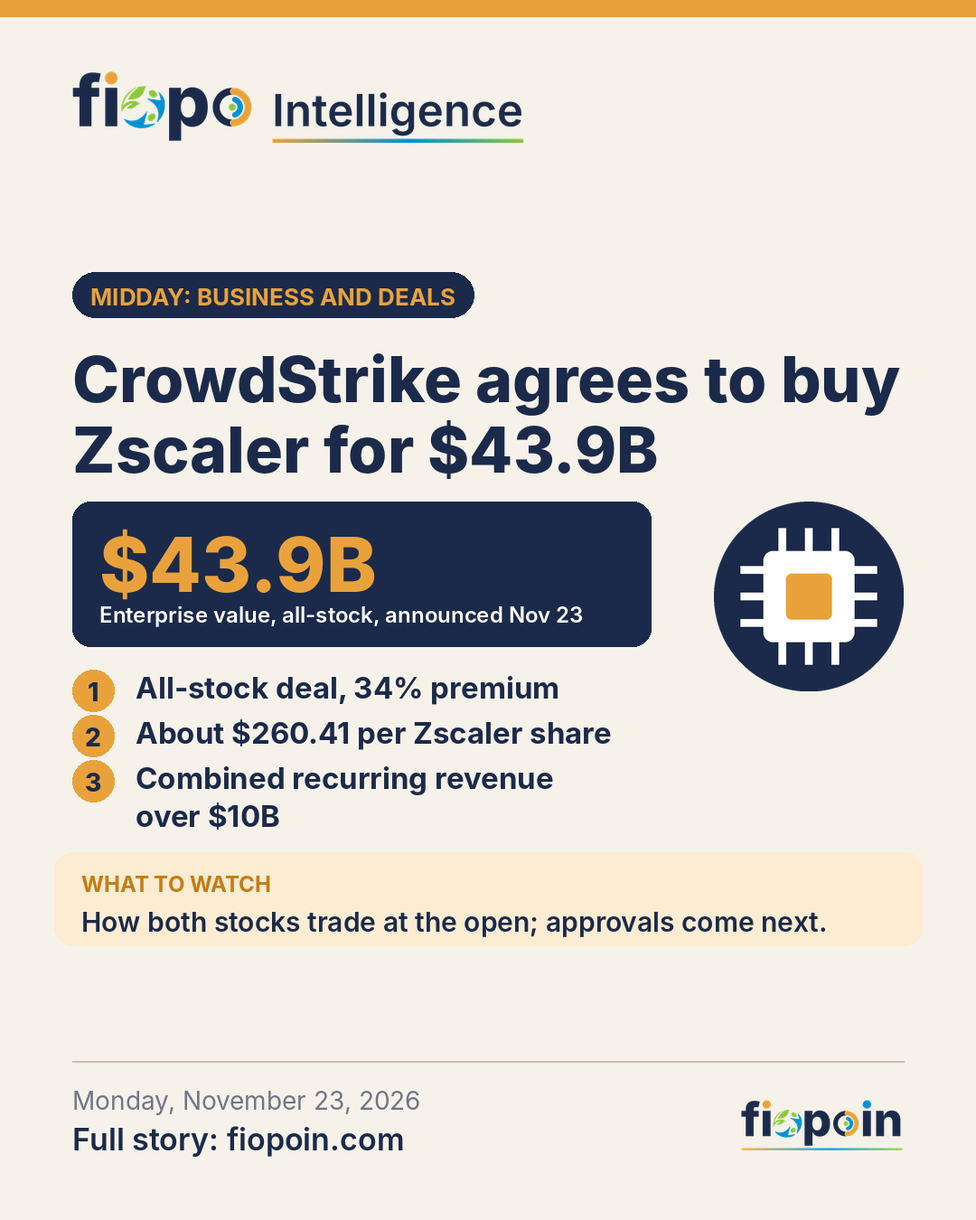
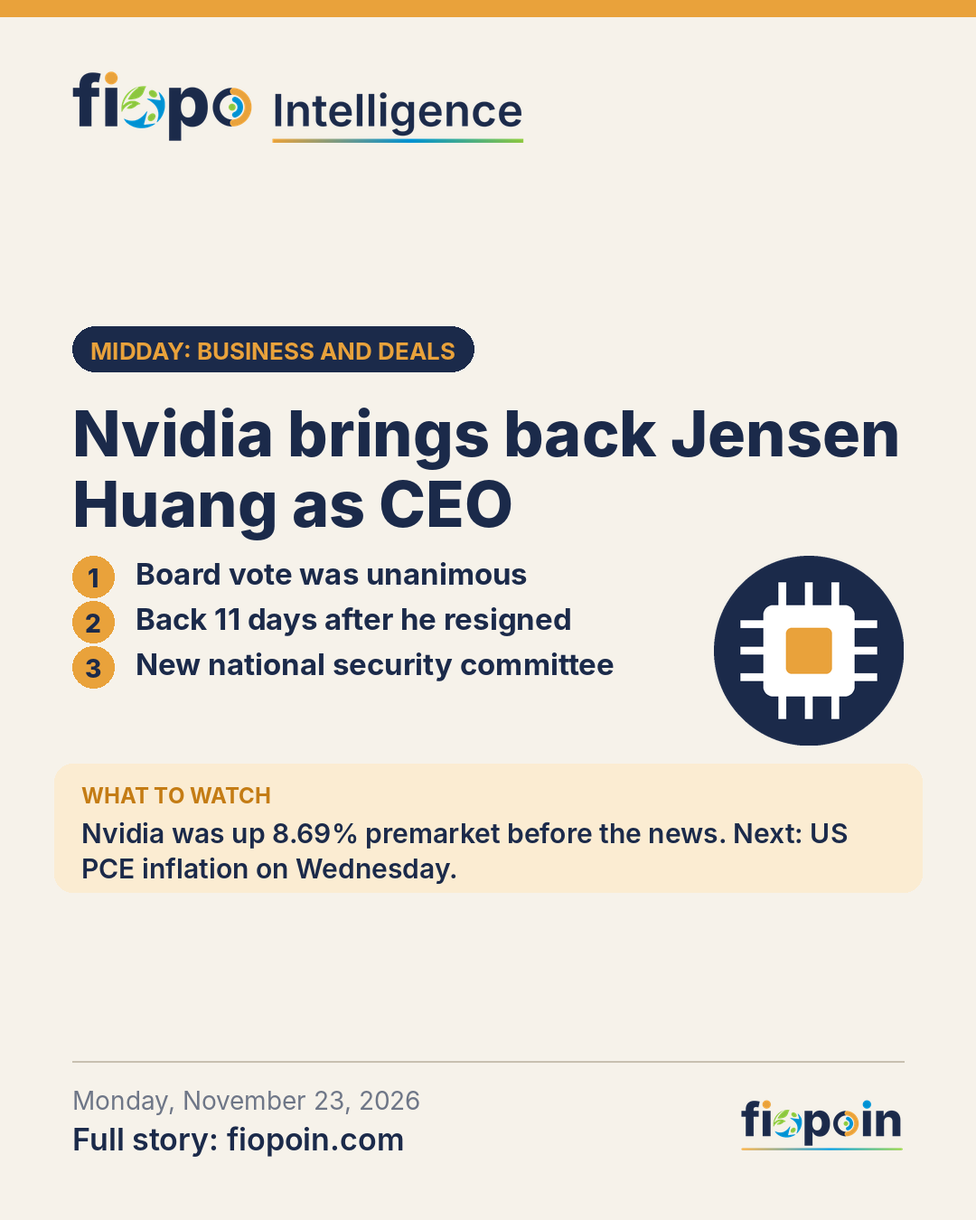
Nov 23 update: Nvidia reinstates Jensen Huang; midday post, hero, money story and tape updated
Claude-Session: https://claude.ai/code/session_01VeWbxxHBww6vYMEBZ5WNWM

Changed region(s): [[0.0611, 0.2178, 0.9167, 0.7778], [0.7333, 0.4044, 0.9472, 0.6222], [0.7639, 0.6533, 0.8556, 0.7156]]

diff --git a/index.html b/index.html
@@ -14,7 +14,7 @@
 <meta name="robots" content="index, follow, max-image-preview:large, max-snippet:-1, max-video-preview:-1">
 <link rel="canonical" href="https://fiopoin.com/">
 <meta property="og:type" content="article">
-<meta property="og:title" content="Futures bounce after Wall Street&#39;s worst week since 2020. Here is how it reaches your savings.">
+<meta property="og:title" content="Nvidia brings back Jensen Huang after Wall Street&#39;s worst week since 2020.">
 <meta property="og:description" content="US stock futures rose on Sunday night after Wall Street&#39;s worst week since 2020. Dow futures gained 798 points after the S&amp;P 500 fell 8.6% last week. Taiwan had its worst week since 1991 and Korea&#39;s KOSPI fell 3.3% on Monday. Gold rose to $3,607.55.">
 <meta property="og:image" content="https://fiopoin.com/social/2026-11-23.png">
 <meta property="og:image:width" content="1080">
@@ -23,10 +23,10 @@
 <meta property="og:locale" content="en_US">
 <meta property="article:published_time" content="2026-11-23T05:12:00-06:00">
 <meta name="twitter:card" content="summary_large_image">
-<meta name="twitter:title" content="Futures bounce after Wall Street&#39;s worst week since 2020. Here is how it reaches your savings.">
+<meta name="twitter:title" content="Nvidia brings back Jensen Huang after Wall Street&#39;s worst week since 2020.">
 <meta name="twitter:description" content="US stock futures rose on Sunday night after Wall Street&#39;s worst week since 2020. Dow futures gained 798 points after the S&amp;P 500 fell 8.6% last week. Taiwan had its worst week since 1991 and Korea&#39;s KOSPI fell 3.3% on Monday. Gold rose to $3,607.55.">
 <meta name="twitter:image" content="https://fiopoin.com/social/2026-11-23.png">
-<script type="application/ld+json">{"@context": "https://schema.org", "@graph": [{"@type": "NewsMediaOrganization", "@id": "https://fiopoin.com/#org", "name": "FIOPO Intelligence", "alternateName": ["fiopoin", "fiopoin.com", "FIOPO"], "areaServed": "Worldwide", "url": "https://fiopoin.com/", "email": "hello@fiopoin.com", "publishingPrinciples": "https://fiopoin.com/about.html", "logo": {"@type": "ImageObject", "url": "https://fiopoin.com/brand/fiopoin-icon-512.png", "width": 512, "height": 512}, "slogan": "Intelligence for prosperity", "sameAs": ["https://www.linkedin.com/company/fiopoin/", "https://x.com/fiopoinx", "https://www.instagram.com/fiopoin/", "https://www.facebook.com/profile.php?id=61596657421058"]}, {"@type": "NewsArticle", "@id": "https://fiopoin.com/#article", "headline": "Futures bounce after Wall Street's worst week since 2020. Here is how it reaches your savings.", "description": "US stock futures rose on Sunday night after Wall Street's worst week since 2020. Dow futures gained 798 points after the S&P 500 fell 8.6% last week. Taiwan had its worst week since 1991 and Korea's KOSPI fell 3.3% on Monday. Gold rose to $3,607.55.", "url": "https://fiopoin.com/", "mainEntityOfPage": "https://fiopoin.com/", "image": ["https://fiopoin.com/social/2026-11-23.png"], "datePublished": "2026-11-23T05:12:00-06:00", "dateModified": "2026-11-23T05:12:00-06:00", "inLanguage": "en-US", "isAccessibleForFree": true, "articleSection": ["Stocks and your savings", "Iran war and oil", "Cybersecurity deal", "Asian markets"], "author": {"@id": "https://fiopoin.com/#org"}, "publisher": {"@id": "https://fiopoin.com/#org"}}, {"@type": "WebSite", "@id": "https://fiopoin.com/#site", "name": "FIOPO Intelligence", "alternateName": ["fiopoin", "fiopoin.com"], "url": "https://fiopoin.com/", "publisher": {"@id": "https://fiopoin.com/#org"}, "inLanguage": "en-US"}]}</script>
+<script type="application/ld+json">{"@context": "https://schema.org", "@graph": [{"@type": "NewsMediaOrganization", "@id": "https://fiopoin.com/#org", "name": "FIOPO Intelligence", "alternateName": ["fiopoin", "fiopoin.com", "FIOPO"], "areaServed": "Worldwide", "url": "https://fiopoin.com/", "email": "hello@fiopoin.com", "publishingPrinciples": "https://fiopoin.com/about.html", "logo": {"@type": "ImageObject", "url": "https://fiopoin.com/brand/fiopoin-icon-512.png", "width": 512, "height": 512}, "slogan": "Intelligence for prosperity", "sameAs": ["https://www.linkedin.com/company/fiopoin/", "https://x.com/fiopoinx", "https://www.instagram.com/fiopoin/", "https://www.facebook.com/profile.php?id=61596657421058"]}, {"@type": "NewsArticle", "@id": "https://fiopoin.com/#article", "headline": "Nvidia brings back Jensen Huang after Wall Street's worst week since 2020.", "description": "US stock futures rose on Sunday night after Wall Street's worst week since 2020. Dow futures gained 798 points after the S&P 500 fell 8.6% last week. Taiwan had its worst week since 1991 and Korea's KOSPI fell 3.3% on Monday. Gold rose to $3,607.55.", "url": "https://fiopoin.com/", "mainEntityOfPage": "https://fiopoin.com/", "image": ["https://fiopoin.com/social/2026-11-23.png"], "datePublished": "2026-11-23T05:12:00-06:00", "dateModified": "2026-11-23T05:12:00-06:00", "inLanguage": "en-US", "isAccessibleForFree": true, "articleSection": ["Stocks and your savings", "Iran war and oil", "Cybersecurity deal", "Asian markets"], "author": {"@id": "https://fiopoin.com/#org"}, "publisher": {"@id": "https://fiopoin.com/#org"}}, {"@type": "WebSite", "@id": "https://fiopoin.com/#site", "name": "FIOPO Intelligence", "alternateName": ["fiopoin", "fiopoin.com"], "url": "https://fiopoin.com/", "publisher": {"@id": "https://fiopoin.com/#org"}, "inLanguage": "en-US"}]}</script>
 <meta name="google-site-verification" content="I9PhXmjddfq_4GDOSGBJ4YKfCFxIJkVjxWIbcegoYXw">
 
 <script async src="https://www.googletagmanager.com/gtag/js?id=G-QYZ0VFQMXV"></script>
@@ -56,7 +56,7 @@
 
 <section class="hero" id="top">
   <div class="wrap">
-    <h1>Futures bounce after Wall Street&#39;s worst week since 2020. Here is how it reaches your savings.</h1>
+    <h1>Nvidia brings back Jensen Huang after Wall Street&#39;s worst week since 2020.</h1>
     <p class="dek">Every story on FIOPO is traced to where it lands: your fuel, your rent, your savings, your job. Here is how today&#39;s biggest story travels.</p>
     <div class="ripple" role="list" aria-label="How today's top story reaches your wallet">
       
@@ -83,9 +83,9 @@
       
       <div class="node" role="listitem">
         <div class="dot">4</div>
-        <h3>The bounce</h3>
-        <div class="v">Dow fut. +798</div>
-        <p>By 9:16 p.m. ET on Sunday, Dow futures were up 798 points, or 1.66%. S&amp;P 500 futures rose 2.11% and Nasdaq futures 2.75%, Fortune reported.</p>
+        <h3>The turn</h3>
+        <div class="v">NVDA +8.69%</div>
+        <p>On Monday Nvidia&#39;s board unanimously reinstated Jensen Huang as CEO, effective immediately. Earlier, Nvidia rose 8.69% to $136.44 in premarket trading at 6:35 a.m. ET, and by 7:53 a.m. ET S&amp;P 500 futures were up 2.60%, Yahoo Finance showed.</p>
       </div>
       
       <div class="node" role="listitem">
@@ -102,11 +102,11 @@
 
 <div class="tape" aria-label="Market snapshot">
   <div class="wrap">
-    <div class="tick"><small>S&amp;P 500 futures</small><strong>+2.11%</strong><em class="dn">Sun 9:16 p.m. ET</em></div>
+    <div class="tick"><small>S&amp;P 500 futures</small><strong>+2.60%</strong><em class="dn">Mon 7:53 a.m. ET</em></div>
     <div class="tick"><small>S&amp;P 500, week</small><strong>−8.6%</strong><em class="up">Fri close 6,910.39</em></div>
     <div class="tick"><small>10 year Treasury</small><strong>4.94%</strong><em class="flat">Sun evening</em></div>
     <div class="tick"><small>Brent crude</small><strong>$92.10</strong><em class="up">Mon, −0.51%</em></div>
-    <div class="tick"><small>US gas, AAA</small><strong>$3.64</strong><em class="flat">Nov 23</em></div>
+    <div class="tick"><small>Nvidia premarket</small><strong>$136.44</strong><em class="dn">+8.69%, 6:35 a.m. ET</em></div>
     <div class="tick"><small>Gold</small><strong>$3,607.55</strong><em class="dn">Mon, +2.62%</em></div>
     
   </div>
@@ -142,12 +142,12 @@
     
     <article class="story" id="money">
       <header>
-        <div><div class="topic">Stocks and your savings</div><h3>Stock futures bounce after Wall Street&#39;s worst week since 2020.</h3></div>
+        <div><div class="topic">Stocks and your savings</div><h3>Nvidia rehires Jensen Huang as stocks try to bounce from the worst week since 2020.</h3></div>
         <span class="stake hi">High stakes for savers</span>
       </header>
       <div class="tenses">
         <div class="tense t1"><h4>Happened</h4><p>The S&amp;P 500 fell 3.7% on Friday to 6,910.39 and 8.6% for the week, entering a correction. The Dow fell 1.93% to 48,147.33 and 8% for the week, its worst since March 2020. The Nasdaq dropped 5.28% to 22,617.73 and is now down 2.7% for 2026. Nvidia fell about 14% on Friday. The VIX fear gauge closed at 35.89, its highest since April 2025.</p></div>
-        <div class="tense t2"><h4>Happening</h4><p>On Sunday night Dow futures rose 798 points, or 1.66%, S&amp;P 500 futures 2.11% and Nasdaq futures 2.75%. The 10 year Treasury yield was about 4.94%. Gold rose 2.62% to $3,607.55 on Monday after falling about 9% last week. US markets close Thursday for Thanksgiving and close early on Friday.</p></div>
+        <div class="tense t2"><h4>Happening</h4><p>On Monday Nvidia&#39;s board voted unanimously to reinstate Jensen Huang as president, CEO and board director, effective immediately, 11 days after he resigned on November 12. The board said input from senior levels of the US government gave it confidence that his return poses no national security risk. An independent board investigation will continue, a new National Security and Export Control Committee of independent directors will oversee those risks, and Colette Kress returns to her role as CFO. Earlier, after President Trump urged the board on Truth Social to rehire Huang, Nvidia rose 8.69% to $136.44 in premarket trading at 6:35 a.m. ET. By 7:53 a.m. ET, S&amp;P 500 futures were up 2.60% and Nasdaq 100 futures 3.49%, Yahoo Finance showed. On Sunday night Dow futures rose 798 points, or 1.66%, S&amp;P 500 futures 2.11% and Nasdaq futures 2.75%. The 10 year Treasury yield was about 4.94%. Gold rose 2.62% to $3,607.55 on Monday after falling about 9% last week. US markets close Thursday for Thanksgiving and close early on Friday.</p></div>
         <div class="tense t3"><h4>Could happen</h4>
           
           <p>One strong morning does not end a correction. Wednesday&#39;s PCE inflation report and the Fed&#39;s December 9 decision will shape whether the selling resumes.</p>
@@ -155,9 +155,9 @@
         </div>
       </div>
       <div class="you"><h4>What it means for you</h4>
-        <ul><li>Investing for retirement? Keep your regular contributions going; selling after an 8.6% week locks in the loss.</li><li>Need cash in the next year or two? Keep it in savings or short Treasury bills, not stocks.</li><li>Check how much of your fund is in a few big tech names before you add more.</li></ul>
+        <ul><li>Investing for retirement? Keep your regular contributions going; selling after an 8.6% week locks in the loss.</li><li>Need cash in the next year or two? Keep it in savings or short Treasury bills, not stocks.</li><li>Own an S&amp;P 500 or Nasdaq fund? Nvidia is one of its largest weights, so a big Nvidia day moves your balance too. Check your exposure before you add more.</li></ul>
       </div>
-      <div class="watch"><span><b>Watch:</b> US flash PMI at 9:45 a.m. ET Monday, then PCE and GDP at 8:30 a.m. ET Wednesday.</span><span class="src"><a href="https://www.ic.com/blog/wall-street-suffers-worst-weekly-decline-in-years-23-november-2026-ic/" rel="noopener noreferrer">IC Markets</a>, <a href="https://fortune.com/2026/11/22/stock-market-today-dow-futures-sp500-nasdaq-correction-ai-bust/" rel="noopener noreferrer">Fortune</a>, <a href="https://www.home.saxo/en-sg/content/articles/macro/asia-market-quick-take--23-november-2026-23112026" rel="noopener noreferrer">Saxo, Asia Market Quick Take</a>, <a href="https://nordfx.com/market-news/market-pulse-november-23-2026" rel="noopener noreferrer">NordFX</a>, <a href="https://capitalchronicle.substack.com/p/weekend-market-wrap-november-22-2026" rel="noopener noreferrer">Capital Chronicle</a></span></div>
+      <div class="watch"><span><b>Watch:</b> US flash PMI at 9:45 a.m. ET Monday, then PCE and GDP at 8:30 a.m. ET Wednesday.</span><span class="src"><a href="https://www.sec.gov/Archives/edgar/data/0001045810/000104581026000090/nov23pressrelease.htm" rel="noopener noreferrer">Nvidia press release (SEC filing), Nov 23</a>, <a href="https://nvidianews.nvidia.com/news/nvidia-announces-ceo-transition" rel="noopener noreferrer">Nvidia, CEO transition, Nov 12</a>, <a href="https://finance.yahoo.com/markets/stocks/article/nvidia-stock-jumps-as-dc-makes-stunning-u-turn-on-jensen-huang-113419437.html" rel="noopener noreferrer">Yahoo Finance, Nvidia premarket</a>, <a href="https://finance.yahoo.com/markets/live/stock-market-today-monday-november-23-dow-sp-500-nasdaq-091118583.html" rel="noopener noreferrer">Yahoo Finance, markets live</a>, <a href="https://www.ic.com/blog/wall-street-suffers-worst-weekly-decline-in-years-23-november-2026-ic/" rel="noopener noreferrer">IC Markets</a>, <a href="https://fortune.com/2026/11/22/stock-market-today-dow-futures-sp500-nasdaq-correction-ai-bust/" rel="noopener noreferrer">Fortune</a>, <a href="https://www.home.saxo/en-sg/content/articles/macro/asia-market-quick-take--23-november-2026-23112026" rel="noopener noreferrer">Saxo, Asia Market Quick Take</a>, <a href="https://nordfx.com/market-news/market-pulse-november-23-2026" rel="noopener noreferrer">NordFX</a>, <a href="https://capitalchronicle.substack.com/p/weekend-market-wrap-november-22-2026" rel="noopener noreferrer">Capital Chronicle</a></span></div>
     </article>
     
     <article class="story" id="world">
@@ -191,7 +191,7 @@
       </header>
       <div class="tenses">
         <div class="tense t1"><h4>Happened</h4><p>CrowdStrike and Zscaler announced a definitive all-stock deal on Monday, November 23. Zscaler holders get 1.135 CrowdStrike shares for each share, about $260.41 based on Friday&#39;s close, a premium of about 34%. The enterprise value is about $43.9 billion. Bloomberg first reported talks on November 20.</p></div>
-        <div class="tense t2"><h4>Happening</h4><p>CrowdStrike holders would own about 84.1% of the combined company and Zscaler holders 15.9%. Zscaler founder Jay Chaudhry, whose group holds about 34% of the shares, signed voting agreements and will join CrowdStrike&#39;s board. The firms target about $1 billion a year in extra revenue within 30 months and $500 million in cost savings, with combined annual recurring revenue above $10 billion.</p></div>
+        <div class="tense t2"><h4>Happening</h4><p>In premarket trading on Monday, CrowdStrike fell 9.6% and Zscaler rose 13%, Yahoo Finance reported. CrowdStrike holders would own about 84.1% of the combined company and Zscaler holders 15.9%. Zscaler founder Jay Chaudhry, whose group holds about 34% of the shares, signed voting agreements and will join CrowdStrike&#39;s board. The firms target about $1 billion a year in extra revenue within 30 months and $500 million in cost savings, with combined annual recurring revenue above $10 billion.</p></div>
         <div class="tense t3"><h4>Could happen</h4>
           
           <p>The deal needs Zscaler shareholder and regulatory approval and is expected to close in the second half of CrowdStrike&#39;s fiscal 2028, so a long review is likely.</p>
@@ -201,7 +201,7 @@
       <div class="you"><h4>What it means for you</h4>
         <ul><li>Own either stock? Read the proxy when it arrives; you will be asked to vote or will receive new shares.</li><li>Work in cybersecurity? Mergers this size often bring team changes, so keep your skills and contacts current.</li><li>Business customer of both? Ask your account rep how pricing and contracts change after the merger.</li></ul>
       </div>
-      <div class="watch"><span><b>Watch:</b> How both stocks open on Monday.</span><span class="src"><a href="https://www.stocktitan.net/news/ZS/crowd-strike-to-acquire-zscaler-bringing-network-security-and-zero-an19bxbf9q0i.html" rel="noopener noreferrer">CrowdStrike and Zscaler release via StockTitan</a>, <a href="https://www.siliconrepublic.com/enterprise/crowdstrike-reportedly-eyes-zscaler-as-threat-landscape-intensifies" rel="noopener noreferrer">Silicon Republic</a></span></div>
+      <div class="watch"><span><b>Watch:</b> How both stocks open on Monday.</span><span class="src"><a href="https://www.stocktitan.net/news/ZS/crowd-strike-to-acquire-zscaler-bringing-network-security-and-zero-an19bxbf9q0i.html" rel="noopener noreferrer">CrowdStrike and Zscaler release via StockTitan</a>, <a href="https://www.siliconrepublic.com/enterprise/crowdstrike-reportedly-eyes-zscaler-as-threat-landscape-intensifies" rel="noopener noreferrer">Silicon Republic</a>, <a href="https://finance.yahoo.com/markets/live/stock-market-today-monday-november-23-dow-sp-500-nasdaq-091118583.html" rel="noopener noreferrer">Yahoo Finance, markets live</a></span></div>
     </article>
     
     <article class="story" id="asia">

diff --git a/archive/2026-11-23.html b/archive/2026-11-23.html
@@ -14,7 +14,7 @@
 <meta name="robots" content="index, follow, max-image-preview:large, max-snippet:-1, max-video-preview:-1">
 <link rel="canonical" href="https://fiopoin.com/archive/2026-11-23.html">
 <meta property="og:type" content="article">
-<meta property="og:title" content="Futures bounce after Wall Street&#39;s worst week since 2020. Here is how it reaches your savings.">
+<meta property="og:title" content="Nvidia brings back Jensen Huang after Wall Street&#39;s worst week since 2020.">
 <meta property="og:description" content="US stock futures rose on Sunday night after Wall Street&#39;s worst week since 2020. Dow futures gained 798 points after the S&amp;P 500 fell 8.6% last week. Taiwan had its worst week since 1991 and Korea&#39;s KOSPI fell 3.3% on Monday. Gold rose to $3,607.55.">
 <meta property="og:image" content="https://fiopoin.com/social/2026-11-23.png">
 <meta property="og:image:width" content="1080">
@@ -23,10 +23,10 @@
 <meta property="og:locale" content="en_US">
 <meta property="article:published_time" content="2026-11-23T05:12:00-06:00">
 <meta name="twitter:card" content="summary_large_image">
-<meta name="twitter:title" content="Futures bounce after Wall Street&#39;s worst week since 2020. Here is how it reaches your savings.">
+<meta name="twitter:title" content="Nvidia brings back Jensen Huang after Wall Street&#39;s worst week since 2020.">
 <meta name="twitter:description" content="US stock futures rose on Sunday night after Wall Street&#39;s worst week since 2020. Dow futures gained 798 points after the S&amp;P 500 fell 8.6% last week. Taiwan had its worst week since 1991 and Korea&#39;s KOSPI fell 3.3% on Monday. Gold rose to $3,607.55.">
 <meta name="twitter:image" content="https://fiopoin.com/social/2026-11-23.png">
-<script type="application/ld+json">{"@context": "https://schema.org", "@graph": [{"@type": "NewsMediaOrganization", "@id": "https://fiopoin.com/#org", "name": "FIOPO Intelligence", "alternateName": ["fiopoin", "fiopoin.com", "FIOPO"], "areaServed": "Worldwide", "url": "https://fiopoin.com/", "email": "hello@fiopoin.com", "publishingPrinciples": "https://fiopoin.com/about.html", "logo": {"@type": "ImageObject", "url": "https://fiopoin.com/brand/fiopoin-icon-512.png", "width": 512, "height": 512}, "slogan": "Intelligence for prosperity", "sameAs": ["https://www.linkedin.com/company/fiopoin/", "https://x.com/fiopoinx", "https://www.instagram.com/fiopoin/", "https://www.facebook.com/profile.php?id=61596657421058"]}, {"@type": "NewsArticle", "@id": "https://fiopoin.com/archive/2026-11-23.html#article", "headline": "Futures bounce after Wall Street's worst week since 2020. Here is how it reaches your savings.", "description": "US stock futures rose on Sunday night after Wall Street's worst week since 2020. Dow futures gained 798 points after the S&P 500 fell 8.6% last week. Taiwan had its worst week since 1991 and Korea's KOSPI fell 3.3% on Monday. Gold rose to $3,607.55.", "url": "https://fiopoin.com/archive/2026-11-23.html", "mainEntityOfPage": "https://fiopoin.com/archive/2026-11-23.html", "image": ["https://fiopoin.com/social/2026-11-23.png"], "datePublished": "2026-11-23T05:12:00-06:00", "dateModified": "2026-11-23T05:12:00-06:00", "inLanguage": "en-US", "isAccessibleForFree": true, "articleSection": ["Stocks and your savings", "Iran war and oil", "Cybersecurity deal", "Asian markets"], "author": {"@id": "https://fiopoin.com/#org"}, "publisher": {"@id": "https://fiopoin.com/#org"}}]}</script>
+<script type="application/ld+json">{"@context": "https://schema.org", "@graph": [{"@type": "NewsMediaOrganization", "@id": "https://fiopoin.com/#org", "name": "FIOPO Intelligence", "alternateName": ["fiopoin", "fiopoin.com", "FIOPO"], "areaServed": "Worldwide", "url": "https://fiopoin.com/", "email": "hello@fiopoin.com", "publishingPrinciples": "https://fiopoin.com/about.html", "logo": {"@type": "ImageObject", "url": "https://fiopoin.com/brand/fiopoin-icon-512.png", "width": 512, "height": 512}, "slogan": "Intelligence for prosperity", "sameAs": ["https://www.linkedin.com/company/fiopoin/", "https://x.com/fiopoinx", "https://www.instagram.com/fiopoin/", "https://www.facebook.com/profile.php?id=61596657421058"]}, {"@type": "NewsArticle", "@id": "https://fiopoin.com/archive/2026-11-23.html#article", "headline": "Nvidia brings back Jensen Huang after Wall Street's worst week since 2020.", "description": "US stock futures rose on Sunday night after Wall Street's worst week since 2020. Dow futures gained 798 points after the S&P 500 fell 8.6% last week. Taiwan had its worst week since 1991 and Korea's KOSPI fell 3.3% on Monday. Gold rose to $3,607.55.", "url": "https://fiopoin.com/archive/2026-11-23.html", "mainEntityOfPage": "https://fiopoin.com/archive/2026-11-23.html", "image": ["https://fiopoin.com/social/2026-11-23.png"], "datePublished": "2026-11-23T05:12:00-06:00", "dateModified": "2026-11-23T05:12:00-06:00", "inLanguage": "en-US", "isAccessibleForFree": true, "articleSection": ["Stocks and your savings", "Iran war and oil", "Cybersecurity deal", "Asian markets"], "author": {"@id": "https://fiopoin.com/#org"}, "publisher": {"@id": "https://fiopoin.com/#org"}}]}</script>
 <meta name="google-site-verification" content="I9PhXmjddfq_4GDOSGBJ4YKfCFxIJkVjxWIbcegoYXw">
 
 <script async src="https://www.googletagmanager.com/gtag/js?id=G-QYZ0VFQMXV"></script>
@@ -56,7 +56,7 @@
 
 <section class="hero" id="top">
   <div class="wrap">
-    <h1>Futures bounce after Wall Street&#39;s worst week since 2020. Here is how it reaches your savings.</h1>
+    <h1>Nvidia brings back Jensen Huang after Wall Street&#39;s worst week since 2020.</h1>
     <p class="dek">Every story on FIOPO is traced to where it lands: your fuel, your rent, your savings, your job. Here is how today&#39;s biggest story travels.</p>
     <div class="ripple" role="list" aria-label="How today's top story reaches your wallet">
       
@@ -83,9 +83,9 @@
       
       <div class="node" role="listitem">
         <div class="dot">4</div>
-        <h3>The bounce</h3>
-        <div class="v">Dow fut. +798</div>
-        <p>By 9:16 p.m. ET on Sunday, Dow futures were up 798 points, or 1.66%. S&amp;P 500 futures rose 2.11% and Nasdaq futures 2.75%, Fortune reported.</p>
+        <h3>The turn</h3>
+        <div class="v">NVDA +8.69%</div>
+        <p>On Monday Nvidia&#39;s board unanimously reinstated Jensen Huang as CEO, effective immediately. Earlier, Nvidia rose 8.69% to $136.44 in premarket trading at 6:35 a.m. ET, and by 7:53 a.m. ET S&amp;P 500 futures were up 2.60%, Yahoo Finance showed.</p>
       </div>
       
       <div class="node" role="listitem">
@@ -102,11 +102,11 @@
 
 <div class="tape" aria-label="Market snapshot">
   <div class="wrap">
-    <div class="tick"><small>S&amp;P 500 futures</small><strong>+2.11%</strong><em class="dn">Sun 9:16 p.m. ET</em></div>
+    <div class="tick"><small>S&amp;P 500 futures</small><strong>+2.60%</strong><em class="dn">Mon 7:53 a.m. ET</em></div>
     <div class="tick"><small>S&amp;P 500, week</small><strong>−8.6%</strong><em class="up">Fri close 6,910.39</em></div>
     <div class="tick"><small>10 year Treasury</small><strong>4.94%</strong><em class="flat">Sun evening</em></div>
     <div class="tick"><small>Brent crude</small><strong>$92.10</strong><em class="up">Mon, −0.51%</em></div>
-    <div class="tick"><small>US gas, AAA</small><strong>$3.64</strong><em class="flat">Nov 23</em></div>
+    <div class="tick"><small>Nvidia premarket</small><strong>$136.44</strong><em class="dn">+8.69%, 6:35 a.m. ET</em></div>
     <div class="tick"><small>Gold</small><strong>$3,607.55</strong><em class="dn">Mon, +2.62%</em></div>
     
   </div>
@@ -142,12 +142,12 @@
     
     <article class="story" id="money">
       <header>
-        <div><div class="topic">Stocks and your savings</div><h3>Stock futures bounce after Wall Street&#39;s worst week since 2020.</h3></div>
+        <div><div class="topic">Stocks and your savings</div><h3>Nvidia rehires Jensen Huang as stocks try to bounce from the worst week since 2020.</h3></div>
         <span class="stake hi">High stakes for savers</span>
       </header>
       <div class="tenses">
         <div class="tense t1"><h4>Happened</h4><p>The S&amp;P 500 fell 3.7% on Friday to 6,910.39 and 8.6% for the week, entering a correction. The Dow fell 1.93% to 48,147.33 and 8% for the week, its worst since March 2020. The Nasdaq dropped 5.28% to 22,617.73 and is now down 2.7% for 2026. Nvidia fell about 14% on Friday. The VIX fear gauge closed at 35.89, its highest since April 2025.</p></div>
-        <div class="tense t2"><h4>Happening</h4><p>On Sunday night Dow futures rose 798 points, or 1.66%, S&amp;P 500 futures 2.11% and Nasdaq futures 2.75%. The 10 year Treasury yield was about 4.94%. Gold rose 2.62% to $3,607.55 on Monday after falling about 9% last week. US markets close Thursday for Thanksgiving and close early on Friday.</p></div>
+        <div class="tense t2"><h4>Happening</h4><p>On Monday Nvidia&#39;s board voted unanimously to reinstate Jensen Huang as president, CEO and board director, effective immediately, 11 days after he resigned on November 12. The board said input from senior levels of the US government gave it confidence that his return poses no national security risk. An independent board investigation will continue, a new National Security and Export Control Committee of independent directors will oversee those risks, and Colette Kress returns to her role as CFO. Earlier, after President Trump urged the board on Truth Social to rehire Huang, Nvidia rose 8.69% to $136.44 in premarket trading at 6:35 a.m. ET. By 7:53 a.m. ET, S&amp;P 500 futures were up 2.60% and Nasdaq 100 futures 3.49%, Yahoo Finance showed. On Sunday night Dow futures rose 798 points, or 1.66%, S&amp;P 500 futures 2.11% and Nasdaq futures 2.75%. The 10 year Treasury yield was about 4.94%. Gold rose 2.62% to $3,607.55 on Monday after falling about 9% last week. US markets close Thursday for Thanksgiving and close early on Friday.</p></div>
         <div class="tense t3"><h4>Could happen</h4>
           
           <p>One strong morning does not end a correction. Wednesday&#39;s PCE inflation report and the Fed&#39;s December 9 decision will shape whether the selling resumes.</p>
@@ -155,9 +155,9 @@
         </div>
       </div>
       <div class="you"><h4>What it means for you</h4>
-        <ul><li>Investing for retirement? Keep your regular contributions going; selling after an 8.6% week locks in the loss.</li><li>Need cash in the next year or two? Keep it in savings or short Treasury bills, not stocks.</li><li>Check how much of your fund is in a few big tech names before you add more.</li></ul>
+        <ul><li>Investing for retirement? Keep your regular contributions going; selling after an 8.6% week locks in the loss.</li><li>Need cash in the next year or two? Keep it in savings or short Treasury bills, not stocks.</li><li>Own an S&amp;P 500 or Nasdaq fund? Nvidia is one of its largest weights, so a big Nvidia day moves your balance too. Check your exposure before you add more.</li></ul>
       </div>
-      <div class="watch"><span><b>Watch:</b> US flash PMI at 9:45 a.m. ET Monday, then PCE and GDP at 8:30 a.m. ET Wednesday.</span><span class="src"><a href="https://www.ic.com/blog/wall-street-suffers-worst-weekly-decline-in-years-23-november-2026-ic/" rel="noopener noreferrer">IC Markets</a>, <a href="https://fortune.com/2026/11/22/stock-market-today-dow-futures-sp500-nasdaq-correction-ai-bust/" rel="noopener noreferrer">Fortune</a>, <a href="https://www.home.saxo/en-sg/content/articles/macro/asia-market-quick-take--23-november-2026-23112026" rel="noopener noreferrer">Saxo, Asia Market Quick Take</a>, <a href="https://nordfx.com/market-news/market-pulse-november-23-2026" rel="noopener noreferrer">NordFX</a>, <a href="https://capitalchronicle.substack.com/p/weekend-market-wrap-november-22-2026" rel="noopener noreferrer">Capital Chronicle</a></span></div>
+      <div class="watch"><span><b>Watch:</b> US flash PMI at 9:45 a.m. ET Monday, then PCE and GDP at 8:30 a.m. ET Wednesday.</span><span class="src"><a href="https://www.sec.gov/Archives/edgar/data/0001045810/000104581026000090/nov23pressrelease.htm" rel="noopener noreferrer">Nvidia press release (SEC filing), Nov 23</a>, <a href="https://nvidianews.nvidia.com/news/nvidia-announces-ceo-transition" rel="noopener noreferrer">Nvidia, CEO transition, Nov 12</a>, <a href="https://finance.yahoo.com/markets/stocks/article/nvidia-stock-jumps-as-dc-makes-stunning-u-turn-on-jensen-huang-113419437.html" rel="noopener noreferrer">Yahoo Finance, Nvidia premarket</a>, <a href="https://finance.yahoo.com/markets/live/stock-market-today-monday-november-23-dow-sp-500-nasdaq-091118583.html" rel="noopener noreferrer">Yahoo Finance, markets live</a>, <a href="https://www.ic.com/blog/wall-street-suffers-worst-weekly-decline-in-years-23-november-2026-ic/" rel="noopener noreferrer">IC Markets</a>, <a href="https://fortune.com/2026/11/22/stock-market-today-dow-futures-sp500-nasdaq-correction-ai-bust/" rel="noopener noreferrer">Fortune</a>, <a href="https://www.home.saxo/en-sg/content/articles/macro/asia-market-quick-take--23-november-2026-23112026" rel="noopener noreferrer">Saxo, Asia Market Quick Take</a>, <a href="https://nordfx.com/market-news/market-pulse-november-23-2026" rel="noopener noreferrer">NordFX</a>, <a href="https://capitalchronicle.substack.com/p/weekend-market-wrap-november-22-2026" rel="noopener noreferrer">Capital Chronicle</a></span></div>
     </article>
     
     <article class="story" id="world">
@@ -191,7 +191,7 @@
       </header>
       <div class="tenses">
         <div class="tense t1"><h4>Happened</h4><p>CrowdStrike and Zscaler announced a definitive all-stock deal on Monday, November 23. Zscaler holders get 1.135 CrowdStrike shares for each share, about $260.41 based on Friday&#39;s close, a premium of about 34%. The enterprise value is about $43.9 billion. Bloomberg first reported talks on November 20.</p></div>
-        <div class="tense t2"><h4>Happening</h4><p>CrowdStrike holders would own about 84.1% of the combined company and Zscaler holders 15.9%. Zscaler founder Jay Chaudhry, whose group holds about 34% of the shares, signed voting agreements and will join CrowdStrike&#39;s board. The firms target about $1 billion a year in extra revenue within 30 months and $500 million in cost savings, with combined annual recurring revenue above $10 billion.</p></div>
+        <div class="tense t2"><h4>Happening</h4><p>In premarket trading on Monday, CrowdStrike fell 9.6% and Zscaler rose 13%, Yahoo Finance reported. CrowdStrike holders would own about 84.1% of the combined company and Zscaler holders 15.9%. Zscaler founder Jay Chaudhry, whose group holds about 34% of the shares, signed voting agreements and will join CrowdStrike&#39;s board. The firms target about $1 billion a year in extra revenue within 30 months and $500 million in cost savings, with combined annual recurring revenue above $10 billion.</p></div>
         <div class="tense t3"><h4>Could happen</h4>
           
           <p>The deal needs Zscaler shareholder and regulatory approval and is expected to close in the second half of CrowdStrike&#39;s fiscal 2028, so a long review is likely.</p>
@@ -201,7 +201,7 @@
       <div class="you"><h4>What it means for you</h4>
         <ul><li>Own either stock? Read the proxy when it arrives; you will be asked to vote or will receive new shares.</li><li>Work in cybersecurity? Mergers this size often bring team changes, so keep your skills and contacts current.</li><li>Business customer of both? Ask your account rep how pricing and contracts change after the merger.</li></ul>
       </div>
-      <div class="watch"><span><b>Watch:</b> How both stocks open on Monday.</span><span class="src"><a href="https://www.stocktitan.net/news/ZS/crowd-strike-to-acquire-zscaler-bringing-network-security-and-zero-an19bxbf9q0i.html" rel="noopener noreferrer">CrowdStrike and Zscaler release via StockTitan</a>, <a href="https://www.siliconrepublic.com/enterprise/crowdstrike-reportedly-eyes-zscaler-as-threat-landscape-intensifies" rel="noopener noreferrer">Silicon Republic</a></span></div>
+      <div class="watch"><span><b>Watch:</b> How both stocks open on Monday.</span><span class="src"><a href="https://www.stocktitan.net/news/ZS/crowd-strike-to-acquire-zscaler-bringing-network-security-and-zero-an19bxbf9q0i.html" rel="noopener noreferrer">CrowdStrike and Zscaler release via StockTitan</a>, <a href="https://www.siliconrepublic.com/enterprise/crowdstrike-reportedly-eyes-zscaler-as-threat-landscape-intensifies" rel="noopener noreferrer">Silicon Republic</a>, <a href="https://finance.yahoo.com/markets/live/stock-market-today-monday-november-23-dow-sp-500-nasdaq-091118583.html" rel="noopener noreferrer">Yahoo Finance, markets live</a></span></div>
     </article>
     
     <article class="story" id="asia">

diff --git a/archive/index.html b/archive/index.html
@@ -3,7 +3,7 @@
 <body><header class="top"><div class="wrap"><a class="brand fi" href="../"><span class="fi-r"><img src="../brand/fiopo-white.svg" alt="FIOPO" width="106" height="44"><span class="fi-int">Intelligence</span></span></a>
 <nav class="main"><a href="../">Today</a></nav></div></header>
 <main><section class="block"><div class="wrap"><div class="shead"><h2>Past editions</h2><p>Every morning's brief, kept so you can check our calls against what happened.</p></div>
-<ul class="archive-list"><li><a href="2026-11-23.html">Monday, November 23, 2026</a><br><span>Futures bounce after Wall Street&#x27;s worst week since 2020. Here is how it reaches your savings.</span></li>
+<ul class="archive-list"><li><a href="2026-11-23.html">Monday, November 23, 2026</a><br><span>Nvidia brings back Jensen Huang after Wall Street&#x27;s worst week since 2020.</span></li>
 <li><a href="2026-11-22.html">Sunday, November 22, 2026</a><br><span>Tankers hit near Hormuz as Iran vows to break the blockade. Here is how it reaches your gas tank.</span></li>
 <li><a href="2026-11-21.html">Saturday, November 21, 2026</a><br><span>Nasdaq fell 5.3% as Nvidia lost 14%. Here is how the AI rout reaches your 401(k).</span></li>
 <li><a href="2026-11-20.html">Friday, November 20, 2026</a><br><span>Stocks fell 2% for a sixth straight day. Here is how the slide reaches your 401(k).</span></li>
